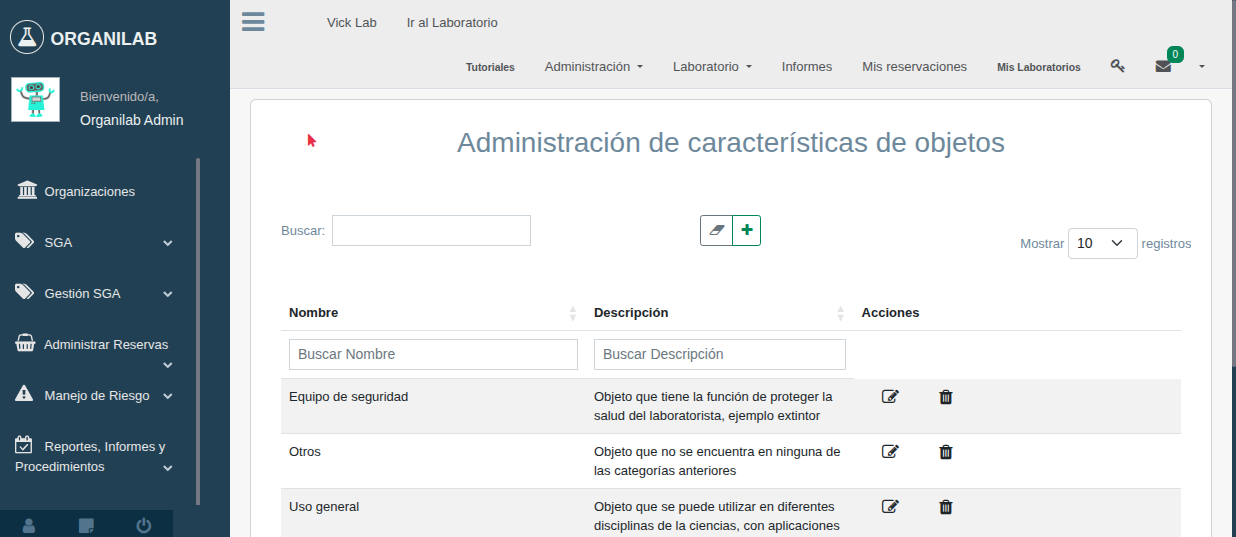
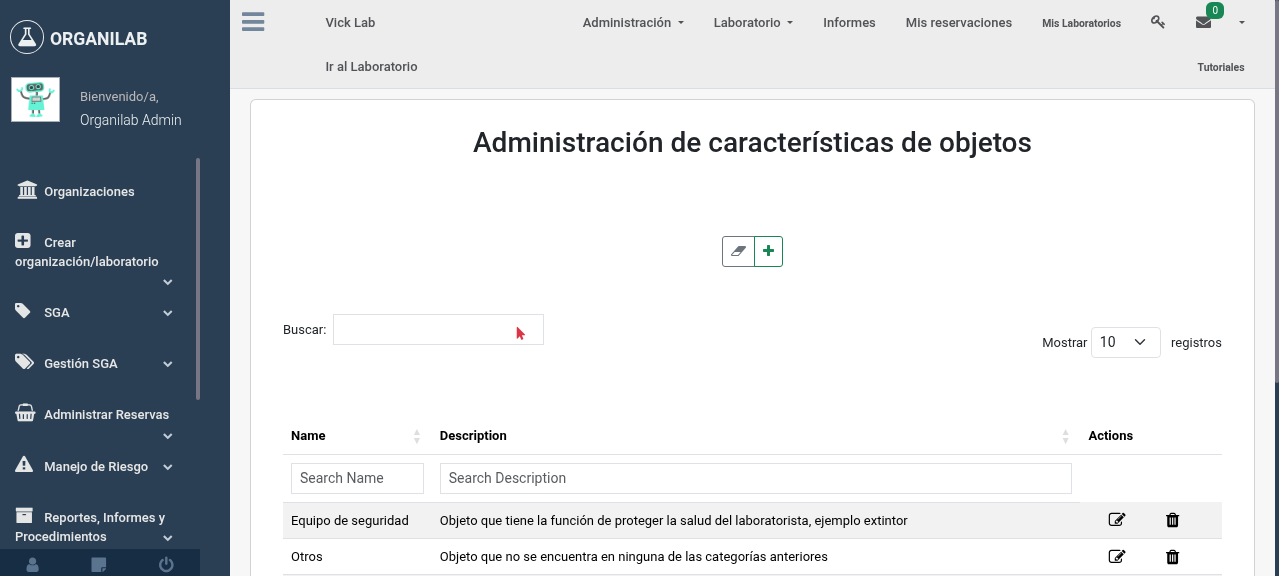
Cada seccion de caracteristicas de objeto usa su propio GIF
Las cuatro secciones del manual (ver, crear, actualizar, eliminar) apuntaban
todas a view_object_features.gif, y la capacitacion referenciaba
create_object_features.gif, que no existia.

Los tests Selenium de organilab ya generaban los cuatro flujos, pero tres
escribian el mismo fichero. Corregido eso alla, se commitean aca los GIF que
faltaban y se reparten las referencias del manual.

diff --git a/source/administrative_usage/laboratory.rst b/source/administrative_usage/laboratory.rst
@@ -871,7 +871,7 @@ Permisos requeridos:
 
 Ejemplo de creación de característica de objeto:
 
-.. image:: ../_static/gif/view_object_features.gif
+.. image:: ../_static/gif/create_object_features.gif
    :height: 380
    :width: 720
 
@@ -895,7 +895,7 @@ Permisos requeridos:
 
 Ejemplo de actualización de caracaterística de objeto:
 
-.. image:: ../_static/gif/view_object_features.gif
+.. image:: ../_static/gif/update_object_features.gif
    :height: 380
    :width: 720
 
@@ -916,7 +916,7 @@ Permisos requeridos:
 
 Ejemplo de eliminación de caracaterística de objeto:
 
-.. image:: ../_static/gif/view_object_features.gif
+.. image:: ../_static/gif/delete_object_features.gif
    :height: 380
    :width: 720
 
